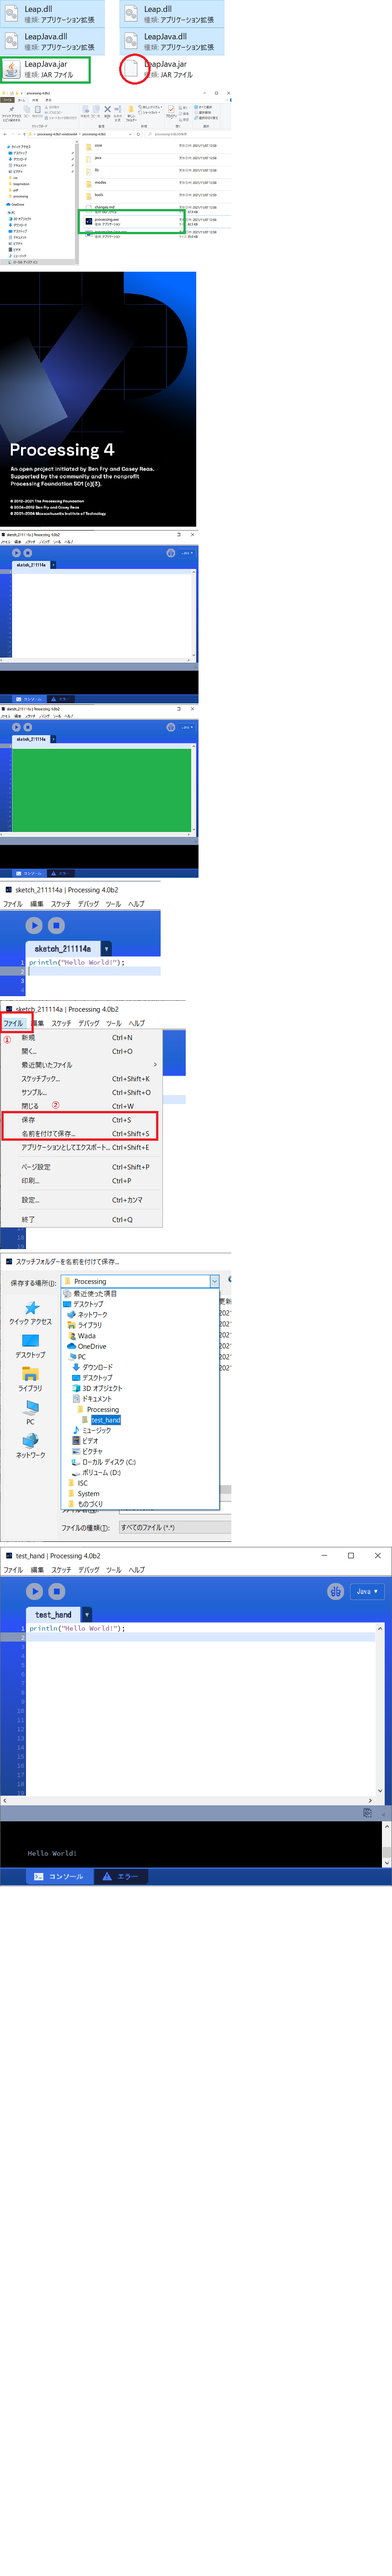
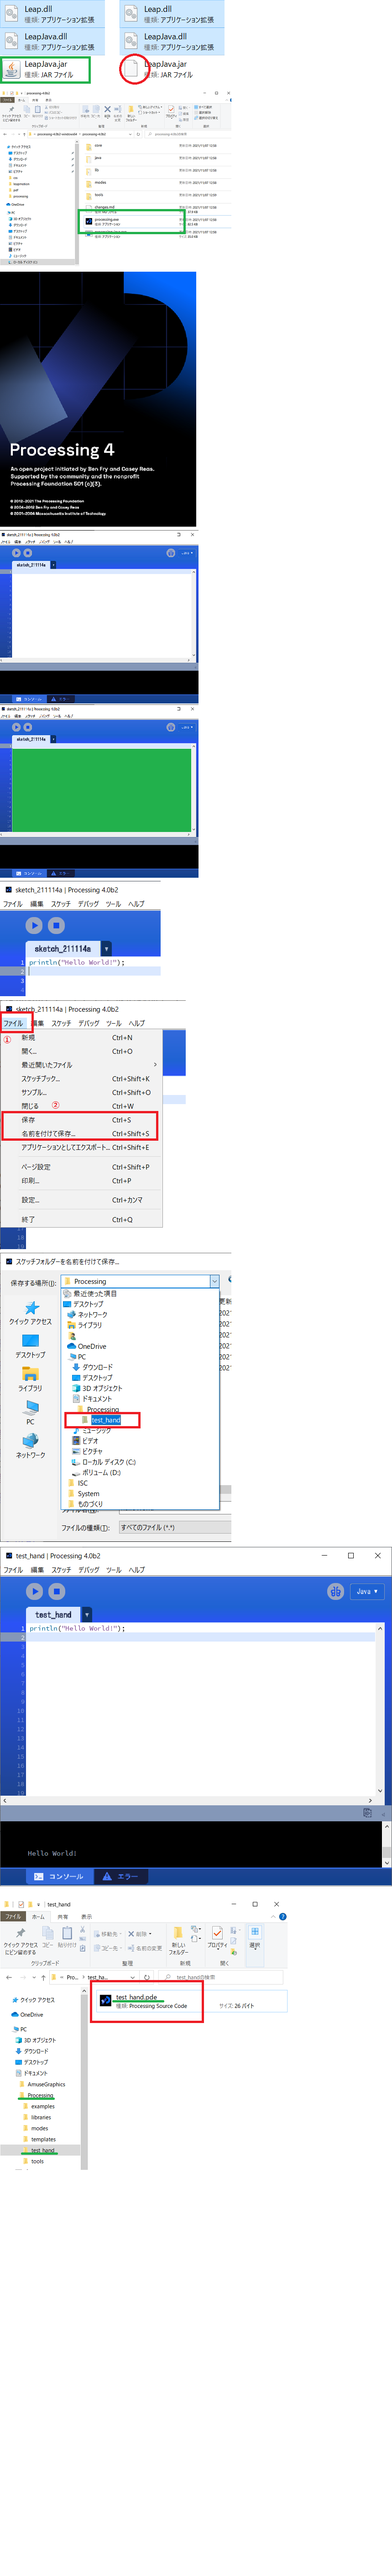
Add files via upload

Changed region(s): [[0.0, 0.7188, 0.6054, 0.8438], [0.6356, 0.75, 0.6659, 0.7812]]

diff --git a/sub/processing/processing.html b/sub/processing/processing.html
@@ -52,7 +52,18 @@
 			<i class="gg-danger"></i>
 			<div class = "paddingL05 commentArea">保存先を把握して、いつでも探せるようにしましょう。ここでは『<span class = "yellow_line">test_hand</span>』と保存しました。</div>
 			<div class = "MarginTB10">ちなみに、『<span class = "yellow_line">test_hand</span>』を命名して保存すると『<span class = "yellow_line">test_hand</span>.pde』というファイルと、同名のスケッチフォルダができます。</div>
-			<div id = "Step" style = "margin-left: 0!important;"><a href = "../leapmotion/leapmotionS3_2.html">LeapMotionトップへ</a></div>
+			<div class = "MarginTB10">『<span class = "yellow_line">test_hand</span>.pde』というファイルと、同名のスケッチフォルダができます。</div>
+			<div class = "CommentBox MarginL05 padding05">
+				<i class="gg-danger"></i>
+				<div class = "paddingL05">
+					<div>エクスプローラにて、保存した『<span class = "yellow_line">test_hand</span>.pde』をダブルクリックして、Processing起動することもできます。</div>
+					<div class = "MarginL02">
+						<div>確認内容</div>
+						<div class = "LM3_2_PImg11"></div>
+					</div>
+				</div>
+			</div>
+			<div id = "Step" style = "margin-left: 0!important;"><a href = "../leapmotion/leapmotionS3_2.html">もどる</a></div>
 			<div id = "Step" style = "margin-left: 0!important;"><a href = "../leapmotion/leapmotionS3_2.html">前のステップへ</a></div>
 			<div class = "Back"><a href = "../leapmotion/leapmotionS3_2.html"></a></div>
 			<div class = "ToTop"><a href = "#Page_top"></a></div>

diff --git a/css/sub_StyleSheet.css b/css/sub_StyleSheet.css
@@ -48,3 +48,4 @@ h1 { padding: .7em; font-size: 1.2em; color: white; background-color: #2D5AA1; m
 .LM3_2_PImg8 { background: url( "../img/LM3_2_P.png" ); border: .01em grey solid; width: 350px; height: 150px; background-position: 0 -2000px; }
 .LM3_2_PImg9 { background: url( "../img/LM3_2_P.png" ); border: .01em grey solid; width: 350px; height: 500px; background-position: -1px -2195px; }
 .LM3_2_PImg10 { background: url( "../img/LM3_2_P.png" ); border: .01em grey solid; width: 400px; height: 500px; background-position: -1px -2746px; }
+.LM3_2_PImg11 { background: url( "../img/LM3_2_P.png" ); border: .01em grey solid; width: 450px; height: 600px; background-position: 0 -4150px; }
